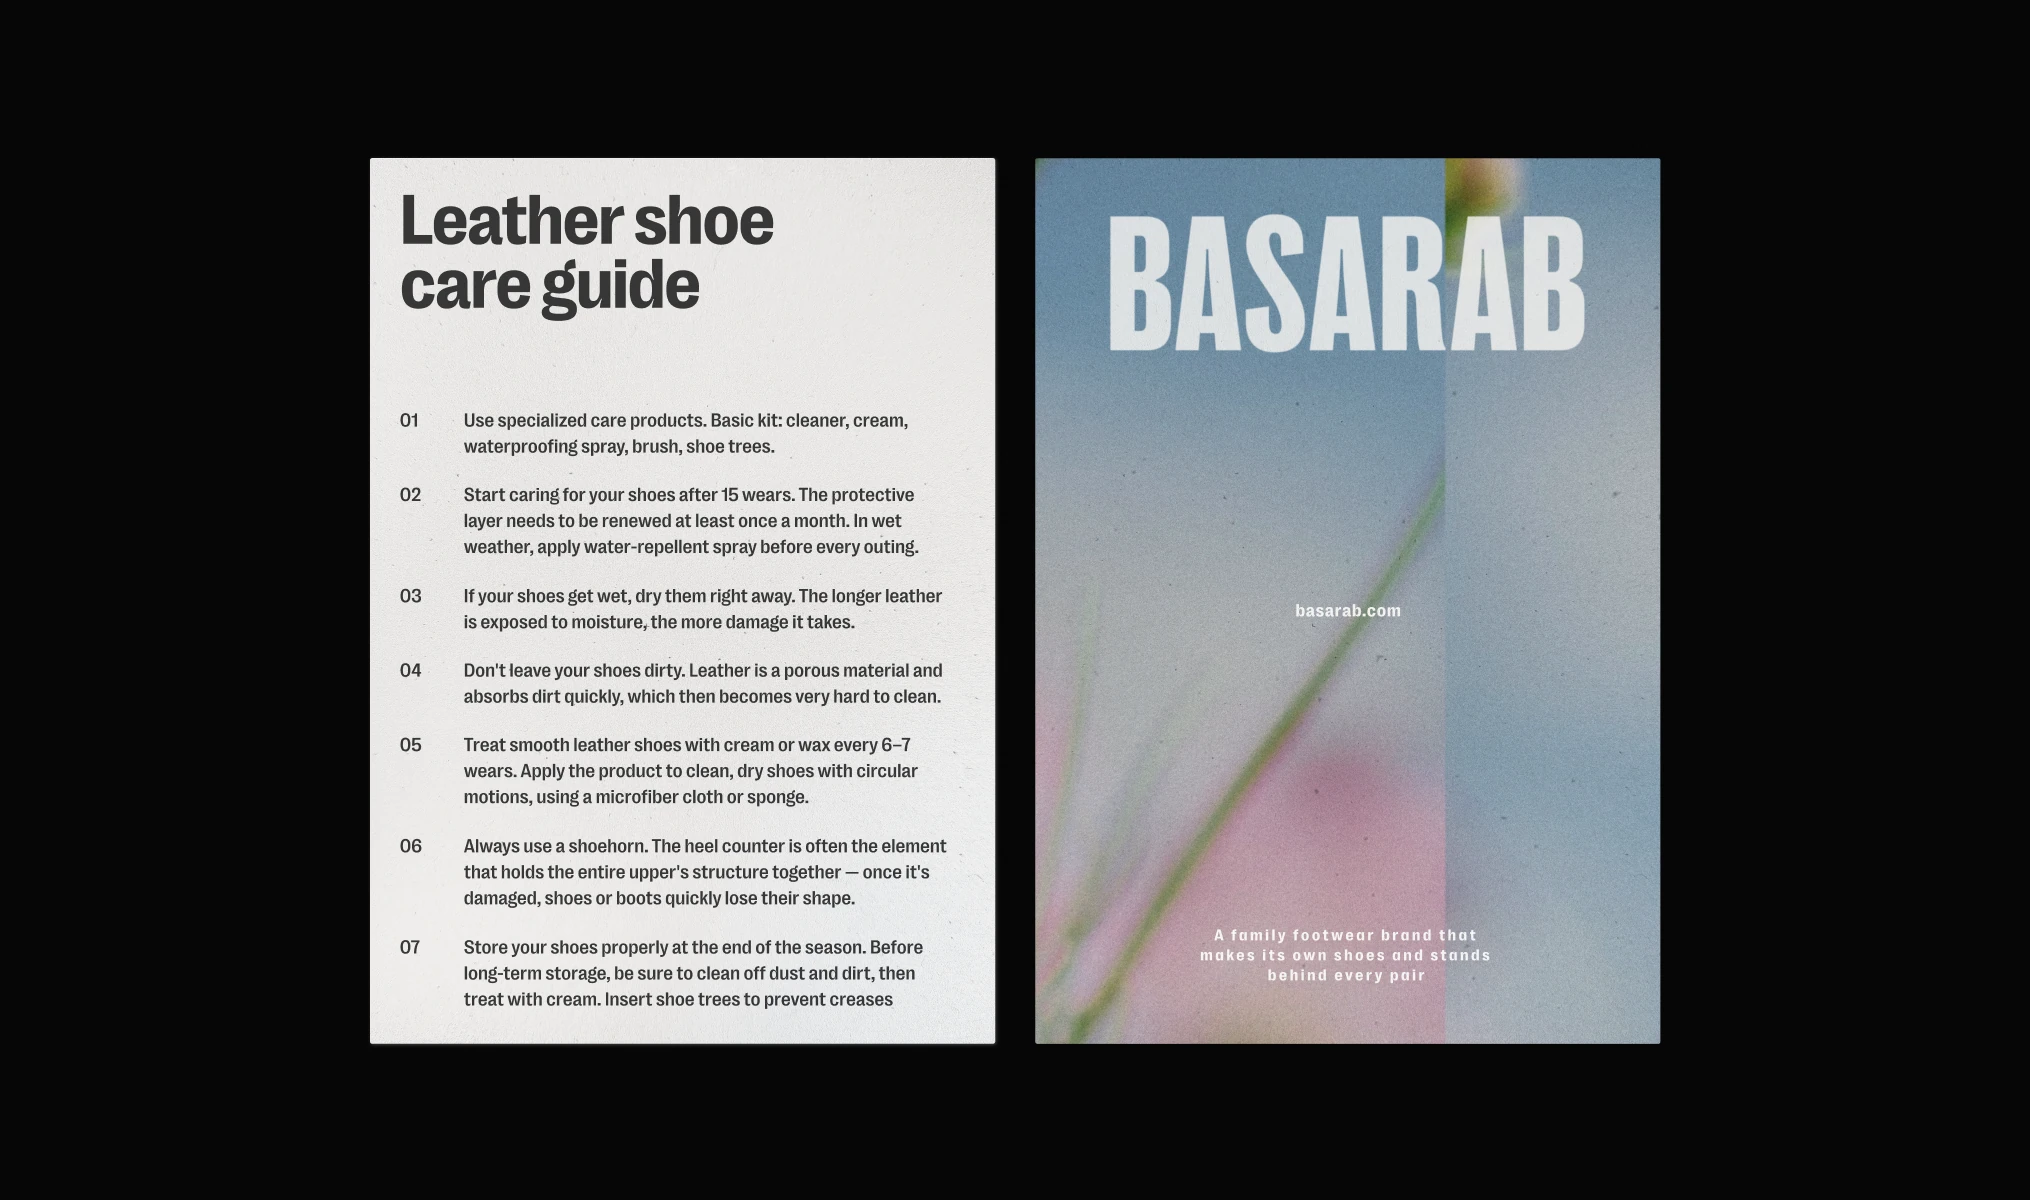
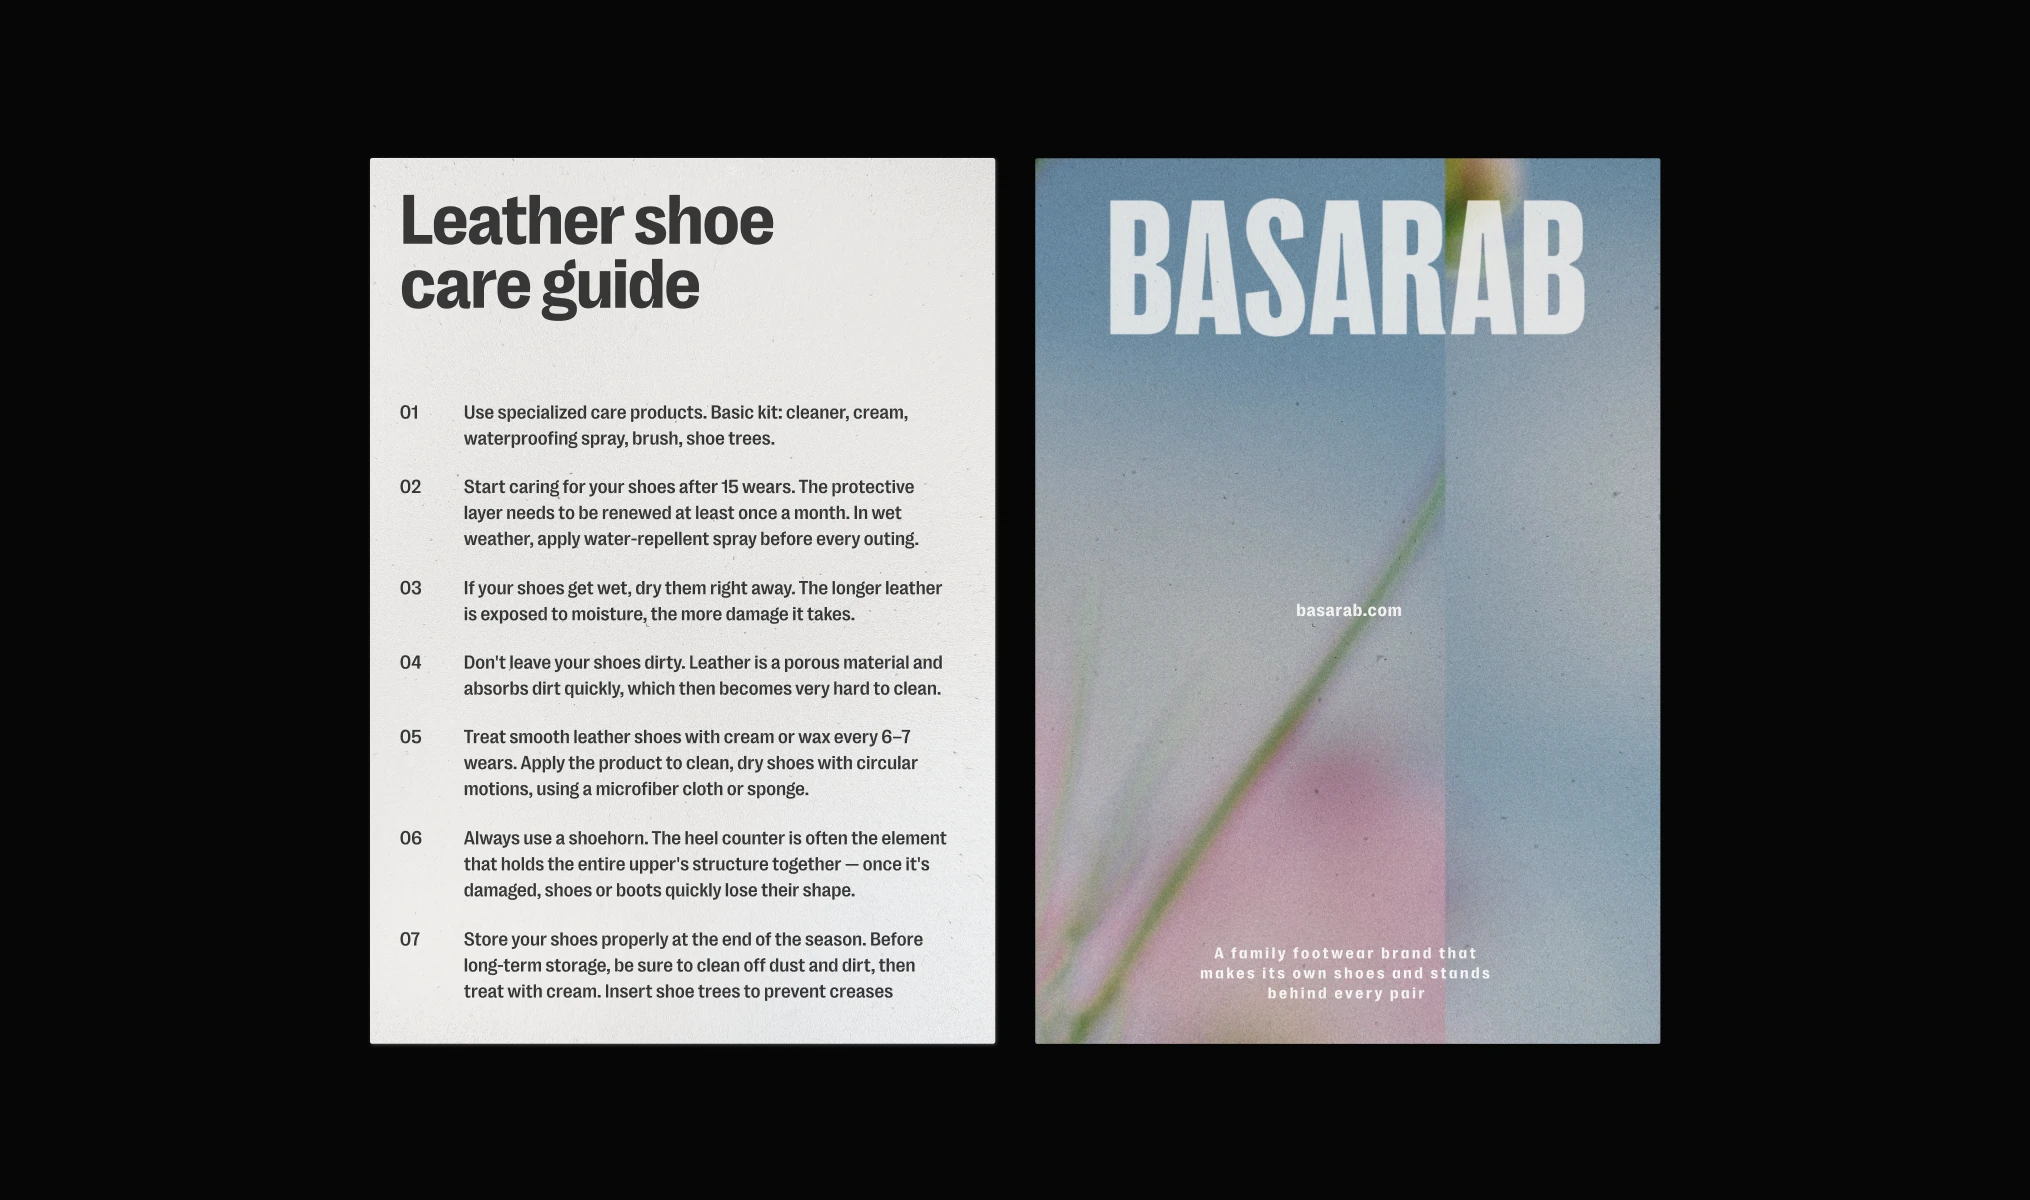
Basarab: updated care-guide slide (Figma 1:864)
Re-exported at 2x after the client's detail fixes; desktop q90 (235KB)
and the phone centre crop rebuilt from it (130KB). Cache-bust to ?v=5.

Claude-Session: https://claude.ai/code/session_01MeEtXqiQLiDk5aa1kcigUi

diff --git a/index.html b/index.html
@@ -2926,7 +2926,7 @@
       <div class="case__media"><img loading="lazy" src="images/basarab-21.webp?v=4" alt="" width="1016" height="1200" /></div>
     </div>
 
-    <div class="case__media reveal case__media--600" style="--mh:19.646rem"><img loading="lazy" src="images/basarab-22.webp?v=4" alt="Leather shoe care guide" width="2030" height="1200" /><img loading="lazy" class="case__media-mobile" src="images/basarab-m22.webp?v=4" alt="Leather shoe care guide" width="1077" height="943" /></div>
+    <div class="case__media reveal case__media--600" style="--mh:19.646rem"><img loading="lazy" src="images/basarab-22.webp?v=5" alt="Leather shoe care guide" width="2030" height="1200" /><img loading="lazy" class="case__media-mobile" src="images/basarab-m22.webp?v=5" alt="Leather shoe care guide" width="1077" height="943" /></div>
 
     <div class="case__row reveal">
       <div class="case__media"><img loading="lazy" src="images/basarab-23.webp?v=4" alt="" width="1014" height="1200" /></div>
